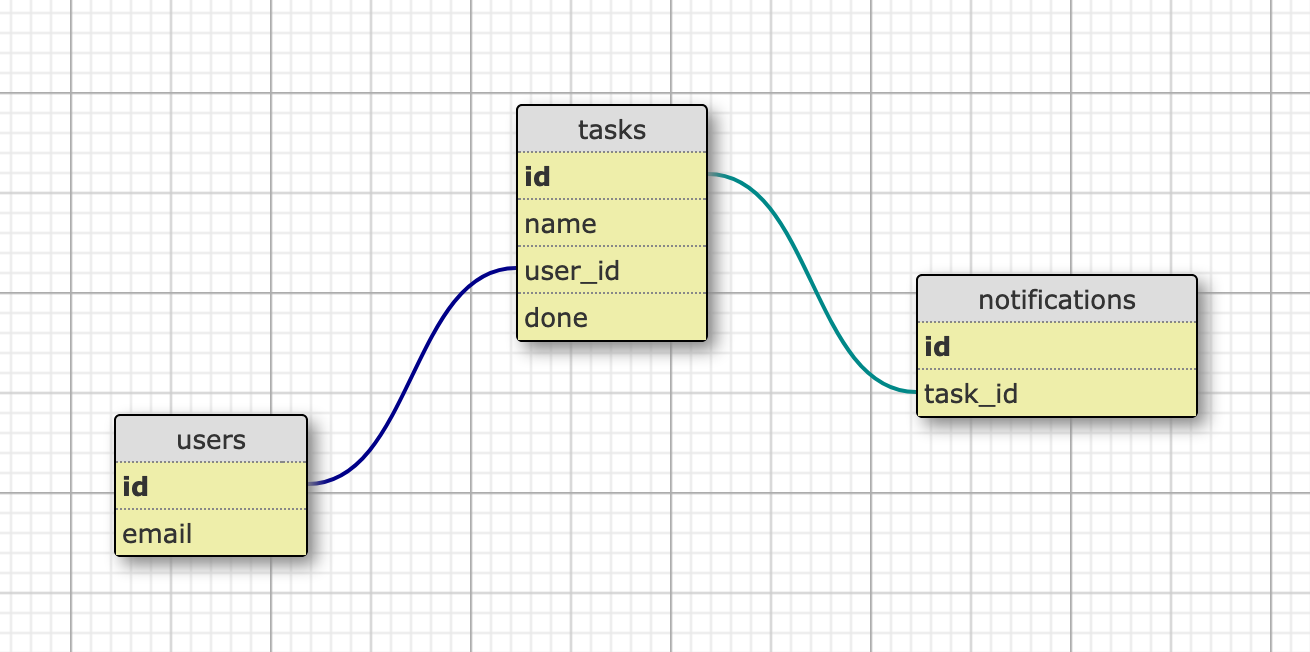
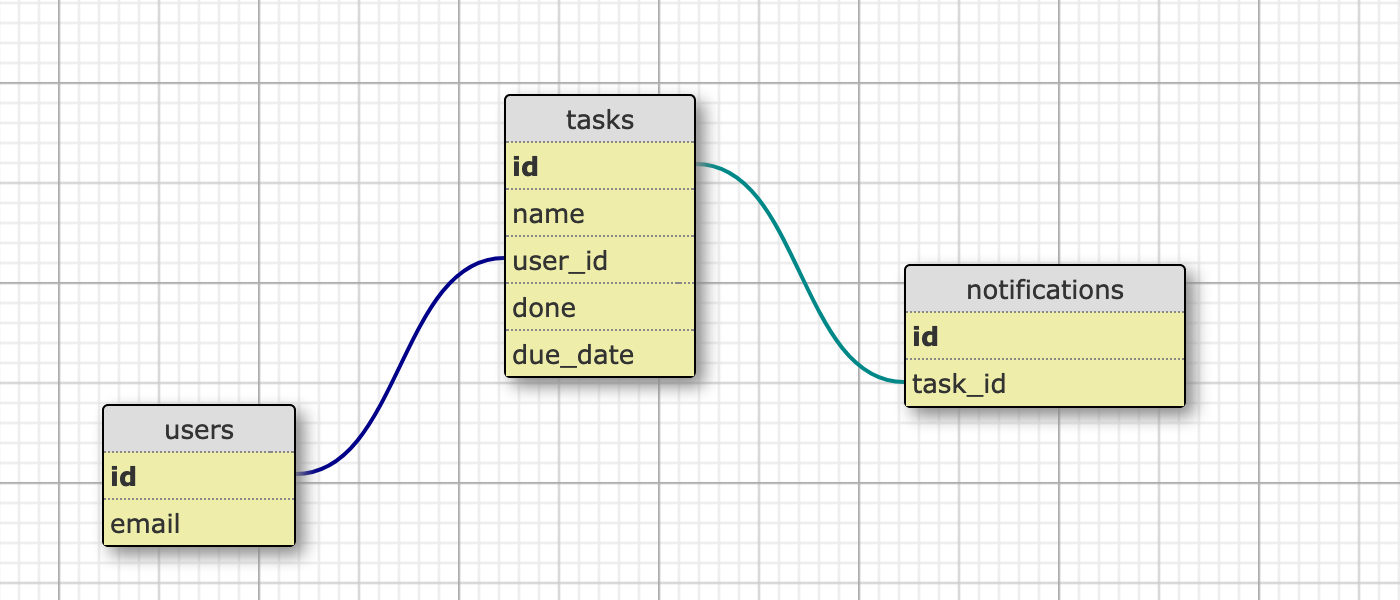
Add specifications for A & B

diff --git a/README.md b/README.md
@@ -5,12 +5,88 @@ Voici une proposition du schema de la base de données:
 ![alt text](database.png)
 
 
-### A.
+Ajouter tous les assocations nécessaires dans les models
+
+```ruby
+class User
+  has_many :tasks
+  has_many :notifications, through: :tasks
+end
+```
+
+```ruby
+class Task
+  belongs_to :user
+  has_many :notifications
+end
+```
 
 
+```ruby
+class Notification
+  belongs_to :task
+  scope :with_pending_tasks, -> { joins(:tasks).where('tasks.done = false') }
+end
+```
+
+### A. Les notifications sont visibles partout dans l'application (à droite sur la navbar) : l'onboardee peut les consulter.
+
+1. Accessibilité des notifications via une API:
+
+```ruby
+  resources :notifications, only: [:index]
+```
+
+2. Récupération des notifications d'un user `NotificationsController`
+
+```ruby
+def index
+  @notifications = current_user.notifications.with_pending_tasks
+end
+```
+
+3. Affichage des notifications:
+
+En Ajax (pour optimiser le chargement de la page), récupérer la liste des notifications via l'api `/notifications` et ensuite les afficher.
+
+4. Création des notifications.
+
+Dans un fichier `lib/create_notifications.rb`:
+- Créer une tâche qui récupèrent toutes les tâches non faites de la veille et créent des notifications.
+- La tâche serait codée de cette façon:
+
+```ruby
+Task.where(done: false, due_date: Date.yesterday).each do |task|
+  Notification.create!(task: task)
+end
+```
+
+- Avec la `gem whenever`, programmer cette tâche tous les jours à '00:01'
 
 
+### B. Les notifications sont envoyées une fois par semaine, le mardi, à l'onboardee par email.
 
-### B.
+
+1. Création d'une tâche récurrente
+
+Dans un fichier `lib/send_pending_notifications.rb`:
+```ruby
+  Notification.with_pending_tasks.users.uniq.each do |user|
+    NotifyOnboardee(user, user.notifications).perform_later
+  end
+```
 
 
+Créer un job dans un fichier `app/jobs/notify_onboardee.rb`
+
+```ruby
+class NotifyOnboardee < ApplicationJob
+  queue_as :default
+
+  def perform(recipient, notifications)
+    NotificationMailer.submission(recipient, notifications).deliver
+  end
+end
+```
+
+2. Avec la `gem whenever`, programmer cette tâche tous les mardi à '02:00'
